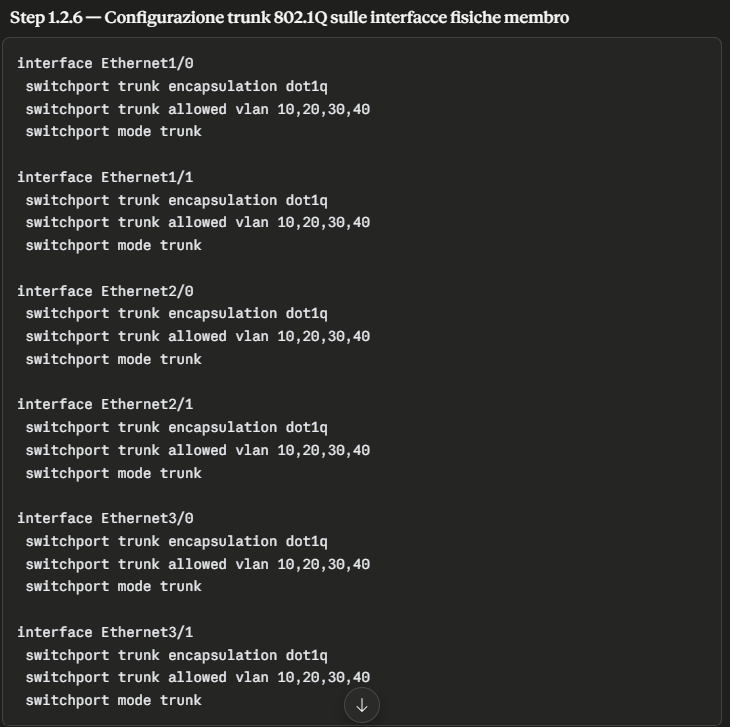
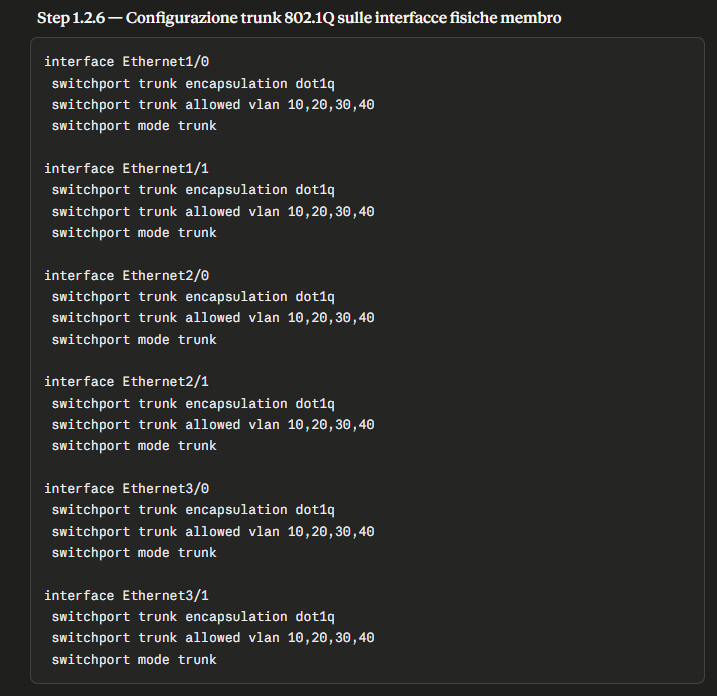
[UPD] Creazione VLAN parcheggio + assegnazione porte non utilizzate

diff --git a/index.html b/index.html
@@ -1006,6 +1006,46 @@
                   vengano replicate sugli switch restanti.
                 </p>
               </div>
+              <br />
+              <br />
+              <img
+                src="./img/Creazione_VLAN_Parcheggio_dal_Primary_Server.png"
+                alt="Traccia configurazioni - canvas GNS3"
+                class="obj-image"
+              />
+              <br />
+              <img
+                src="./img/Access_VLAN_Parcheggio_Shutdown_Porte_Non_Utilizzate.png"
+                alt="Traccia configurazioni - canvas GNS3"
+                class="obj-image"
+              />
+              <div class="obj-trace">
+                <h4>Traccia / note</h4>
+                <p>
+                  Per la creazione della VLAN parcheggio la procedura
+                  corrisponde a quanto visto nella creazione delle VLAN
+                  10,20,30,40; Questa viene sempre creata dallo Switch Primary
+                  Server, ho notato che al riavvio del dispositivo la
+                  designazione di uno specifico switch a Primary Server non
+                  resta configurata, pertanto ho dovuto ripetere il comando per
+                  eleggere SW-1-VTP-SERVER a server primario; <br />
+                  - interface range ... : applica lo stesso blocco di comandi a
+                  tutte le interfacce selezionate, ottimo metodo per evitare di
+                  configurare le interfacce una alla volta. <br/>
+                  - switchport mode access : comando necessario per assegnare una VLAN access.<br/>
+                  - switchport access vlan 999 : assegna la porta fisica alla VLAN parcheggio, che resta isolata dal resto della rete. <br/>
+                  - shutdown : spegne completamente la porta, essendo non utilizzata.
+                </p>
+                <br />
+                <h4>Comandi di diagnostica</h4>
+                <p>
+                  - show vlan brief : esegui questo comando su ogni switch
+                  appartenente al dominio VTP, mostra il riepilogo delle VLAN
+                  create localmente nel dispositivo e accertarsi che queste
+                  vengano replicate sugli switch restanti. <br/>
+                  - show interfaces status : mostra lo stato delle porte.
+                </p>
+              </div>
             </div>
           </details>
           <details class="obj-item status-todo">